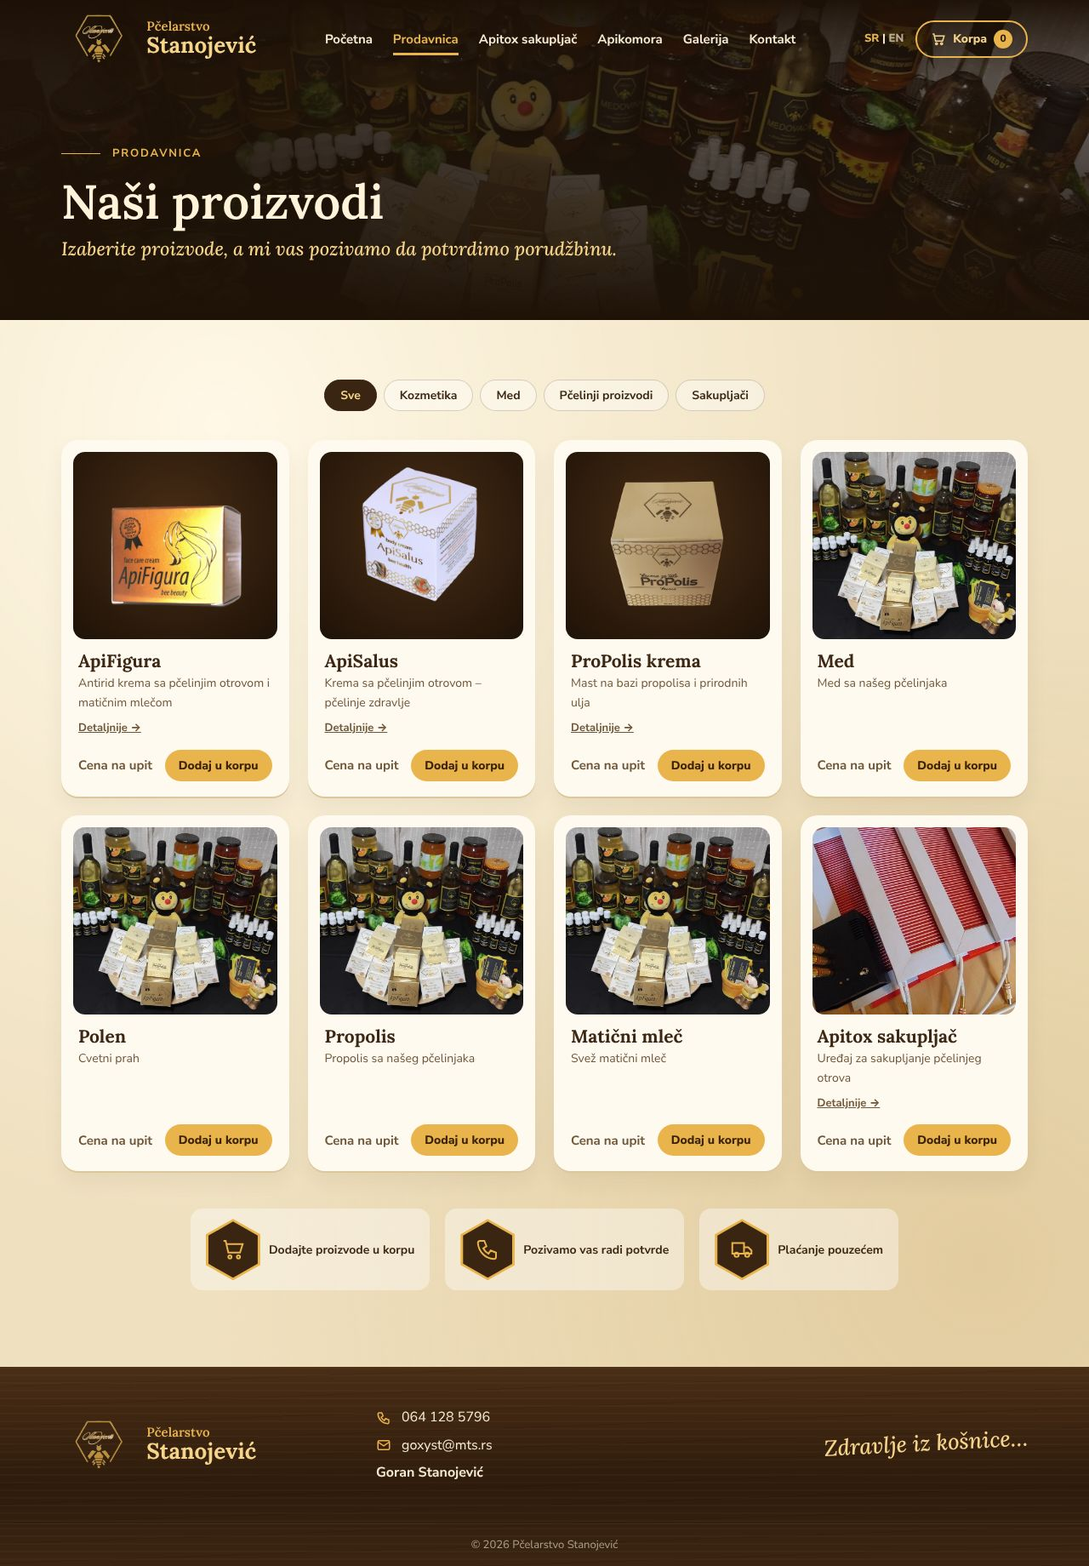
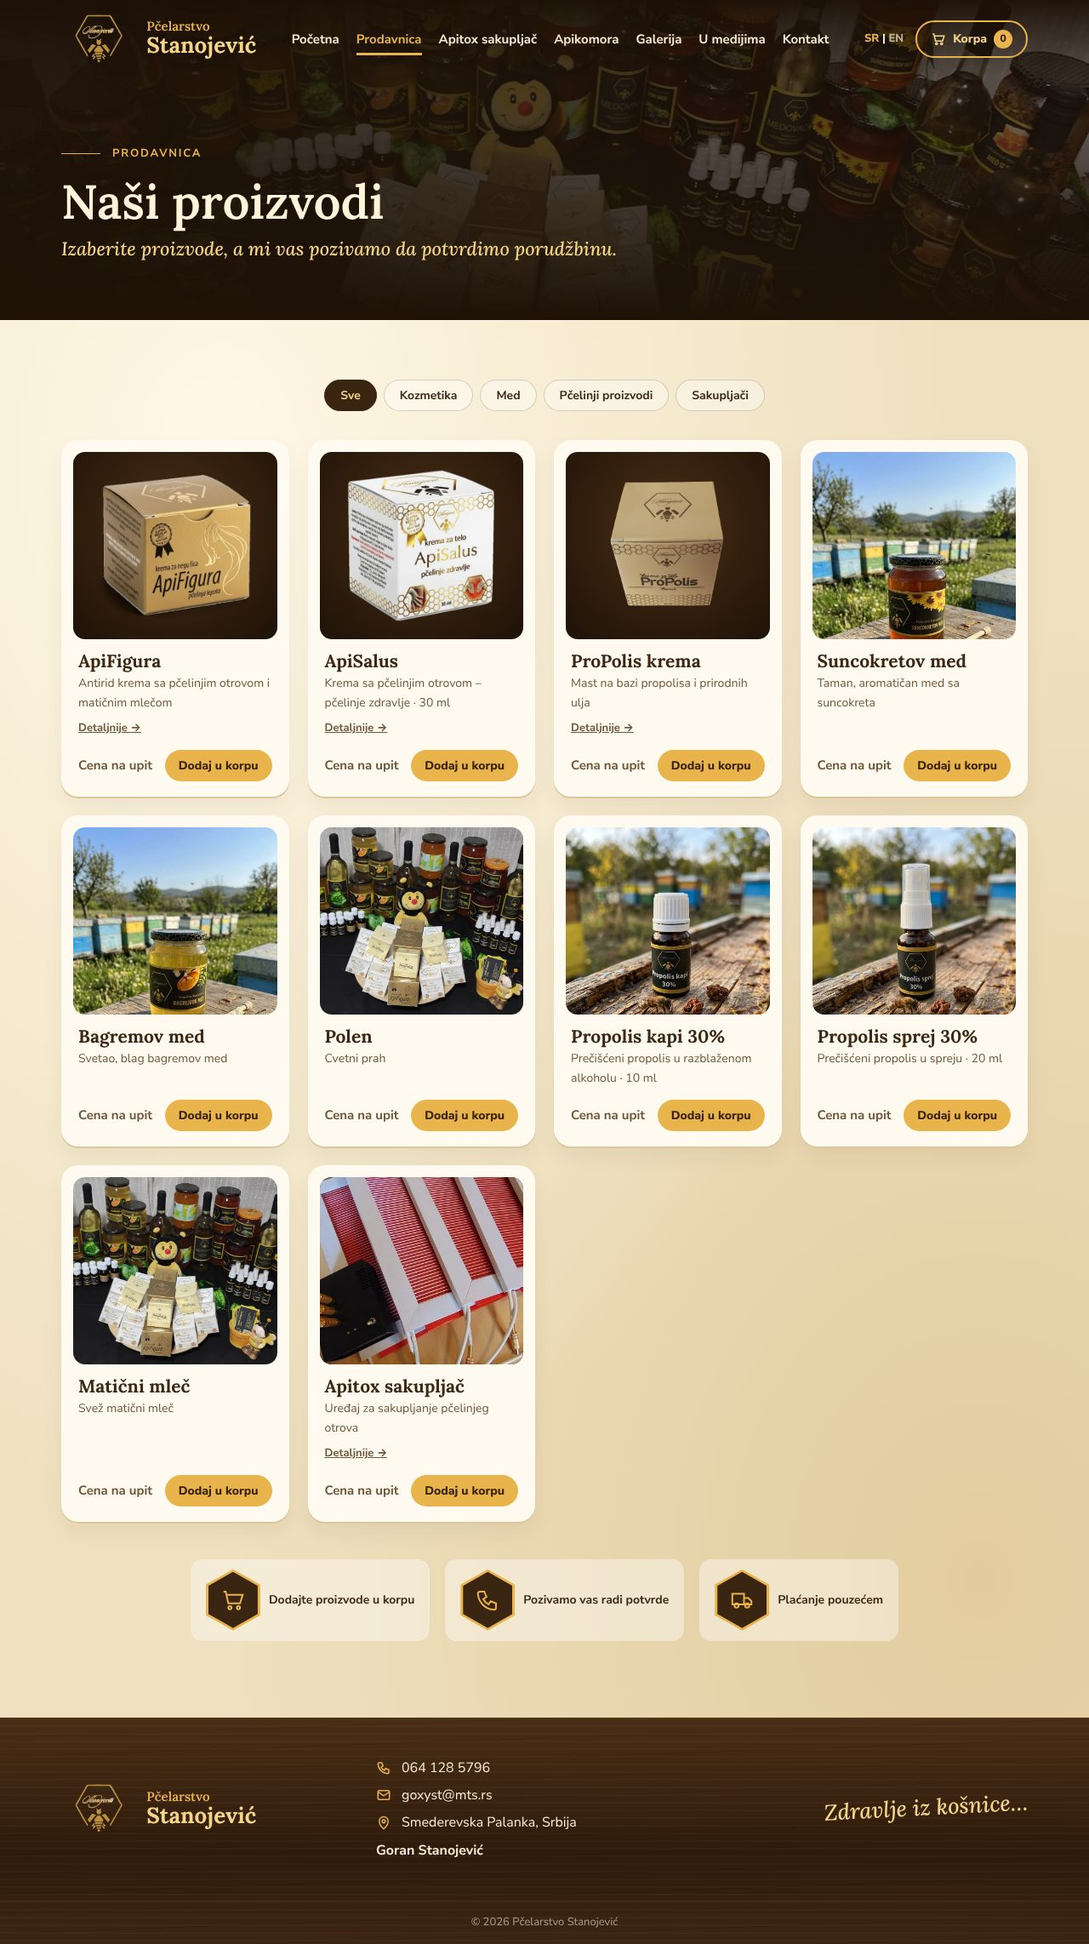
Add product photos for ApiSalus, sunflower and acacia honey, propolis drops and spray
Replaces placeholder honey/propolis items with real products; home hexagons use the new photos.

Claude-Session: https://claude.ai/code/session_0162hmdcb4eJbaXQYQXP79Ds

diff --git a/pcelarstvo-stanojevic/site/assets/products.js b/pcelarstvo-stanojevic/site/assets/products.js
@@ -8,6 +8,7 @@
     unit    – pakovanje (npr. "50 ml", "1 kg")
     img     – slika iz foldera img/
     cover   – true ako je slika fotografija koja treba da ispuni okvir
+    light   – true ako je slika na beloj pozadini (prikazuje se na svetloj podlozi)
     page    – stranica sa detaljima (ako postoji)
     sr / en – naziv i kratak opis na srpskom i engleskom
 
@@ -17,7 +18,7 @@ window.PRODUCTS = [
   { id: "apifigura", cat: "kozmetika", price: null, unit: "", img: "img/proizvodi/apifigura.webp", page: "apifigura",
     sr: { name: "ApiFigura", desc: "Antirid krema sa pčelinjim otrovom i matičnim mlečom" },
     en: { name: "ApiFigura", desc: "Anti-wrinkle cream with bee venom and royal jelly" } },
-  { id: "apisalus", cat: "kozmetika", price: null, unit: "", img: "img/005.png", page: "apisalus",
+  { id: "apisalus", cat: "kozmetika", price: null, img: "img/proizvodi/apisalus.webp", unit: "30 ml", page: "apisalus",
     sr: { name: "ApiSalus", desc: "Krema sa pčelinjim otrovom – pčelinje zdravlje" },
     en: { name: "ApiSalus", desc: "Cream with bee venom – bee health" } },
   { id: "propolis-krema", cat: "kozmetika", price: null, unit: "", img: "img/006.png", page: "propolis-krema",
@@ -25,15 +26,21 @@ window.PRODUCTS = [
     en: { name: "ProPolis cream", desc: "Ointment made with propolis and natural oils" } },
 
   /* --- PRIMERI: dopuniti tačnim proizvodima, pakovanjima i cenama --- */
-  { id: "med", cat: "med", price: null, unit: "", img: "img/049.jpg", cover: true,
-    sr: { name: "Med", desc: "Med sa našeg pčelinjaka" },
-    en: { name: "Honey", desc: "Honey from our apiary" } },
+  { id: "med-suncokret", cat: "med", price: null, unit: "", img: "img/proizvodi/med-suncokret.webp", cover: true,
+    sr: { name: "Suncokretov med", desc: "Taman, aromatičan med sa suncokreta" },
+    en: { name: "Sunflower honey", desc: "Rich, aromatic sunflower honey" } },
+  { id: "med-bagrem", cat: "med", price: null, unit: "", img: "img/proizvodi/med-bagrem.webp", cover: true,
+    sr: { name: "Bagremov med", desc: "Svetao, blag bagremov med" },
+    en: { name: "Acacia honey", desc: "Light, mild acacia honey" } },
   { id: "polen", cat: "pcelinji", price: null, unit: "", img: "img/049.jpg", cover: true,
     sr: { name: "Polen", desc: "Cvetni prah" },
     en: { name: "Bee pollen", desc: "Flower pollen" } },
-  { id: "propolis", cat: "pcelinji", price: null, unit: "", img: "img/049.jpg", cover: true,
-    sr: { name: "Propolis", desc: "Propolis sa našeg pčelinjaka" },
-    en: { name: "Propolis", desc: "Propolis from our apiary" } },
+  { id: "propolis-kapi", cat: "pcelinji", price: null, unit: "10 ml", img: "img/proizvodi/propolis-kapi.webp", cover: true,
+    sr: { name: "Propolis kapi 30%", desc: "Prečišćeni propolis u razblaženom alkoholu" },
+    en: { name: "Propolis drops 30%", desc: "Purified propolis in diluted alcohol" } },
+  { id: "propolis-sprej", cat: "pcelinji", price: null, unit: "20 ml", img: "img/proizvodi/propolis-sprej.webp", cover: true,
+    sr: { name: "Propolis sprej 30%", desc: "Prečišćeni propolis u spreju" },
+    en: { name: "Propolis spray 30%", desc: "Purified propolis spray" } },
   { id: "maticni-mlec", cat: "pcelinji", price: null, unit: "", img: "img/049.jpg", cover: true,
     sr: { name: "Matični mleč", desc: "Svež matični mleč" },
     en: { name: "Royal jelly", desc: "Fresh royal jelly" } },

diff --git a/pcelarstvo-stanojevic/site/apisalus.html b/pcelarstvo-stanojevic/site/apisalus.html
@@ -15,10 +15,10 @@
 <meta property="og:title" content="ApiSalus – krema sa pčelinjim otrovom | Pčelarstvo Stanojević">
 <meta property="og:description" content="ApiSalus – pčelinje zdravlje – zahvaljujući kapsaicinu, kao jednom od sastojaka kreme, apitoksin (pčelinji otrov) brzo prodire kroz kožu i dovodi do…">
 <meta property="og:url" content="https://www.pcelarstvo-stanojevic.com/apisalus.html">
-<meta property="og:image" content="https://www.pcelarstvo-stanojevic.com/img/005.png">
+<meta property="og:image" content="https://www.pcelarstvo-stanojevic.com/img/proizvodi/apisalus.webp">
 <meta property="og:locale" content="sr_RS">
 <meta name="twitter:card" content="summary_large_image">
-<script type="application/ld+json">{"@context": "https://schema.org", "@type": "Product", "name": "ApiSalus", "image": "https://www.pcelarstvo-stanojevic.com/img/005.png", "description": "ApiSalus – pčelinje zdravlje – zahvaljujući kapsaicinu, kao jednom od sastojaka kreme, apitoksin (pčelinji otrov) brzo prodire kroz kožu i dovodi do poboljšanja cirkulacije i protoka krvi u perifernim delovima tela. Najvažniji sastojci apitoksina su melitin i adolapin. Melitin ima ulogu u smanjivanju krvnog pritiska, sprečava zgrušavanje krvi, deluje antibakterijski, štiti od zračenja i deluje na centralni nervni sistem. Adolapin ima ulogu u ublažavanju bolova i deluje antireumatski.", "brand": {"@type": "Brand", "name": "ApitoxCosmetics"}, "manufacturer": {"@type": "Organization", "name": "Pčelarstvo Stanojević"}}</script>
+<script type="application/ld+json">{"@context": "https://schema.org", "@type": "Product", "name": "ApiSalus", "image": "https://www.pcelarstvo-stanojevic.com/img/proizvodi/apisalus.webp", "description": "ApiSalus – pčelinje zdravlje – zahvaljujući kapsaicinu, kao jednom od sastojaka kreme, apitoksin (pčelinji otrov) brzo prodire kroz kožu i dovodi do poboljšanja cirkulacije i protoka krvi u perifernim delovima tela. Najvažniji sastojci apitoksina su melitin i adolapin. Melitin ima ulogu u smanjivanju krvnog pritiska, sprečava zgrušavanje krvi, deluje antibakterijski, štiti od zračenja i deluje na centralni nervni sistem. Adolapin ima ulogu u ublažavanju bolova i deluje antireumatski.", "brand": {"@type": "Brand", "name": "ApitoxCosmetics"}, "manufacturer": {"@type": "Organization", "name": "Pčelarstvo Stanojević"}}</script>
 <link rel="icon" href="img/001.png">
 <link rel="preconnect" href="https://fonts.googleapis.com"><link rel="preconnect" href="https://fonts.gstatic.com" crossorigin>
 <link href="https://fonts.googleapis.com/css2?family=Lora:ital,wght@0,500;0,600;0,700;1,500&family=Nunito+Sans:wght@400;600;700;800&display=swap" rel="stylesheet">
@@ -35,7 +35,7 @@
 </div></header>
 <section class="banner" style="background-image:url(img/002.jpg)"><div class="wrap"><div class="kick left">ApitoxCosmetics</div><h1>ApiSalus</h1><p>Pčelinje zdravlje</p></div></section>
 <section class="content paper"><div class="wrap"><div class="pd">
- <div class="ph"><img src="img/005.png" alt="ApiSalus"></div>
+ <div class="ph"><img src="img/proizvodi/apisalus.webp" alt="ApiSalus"></div>
  <div>
   <a class="small" href="prodavnica.html" style="font-weight:700">← Nazad u prodavnicu</a>
   <h2 style="margin-top:10px">ApiSalus</h2>

diff --git a/pcelarstvo-stanojevic/site/en/apisalus.html b/pcelarstvo-stanojevic/site/en/apisalus.html
@@ -15,10 +15,10 @@
 <meta property="og:title" content="ApiSalus – bee venom cream | Stanojević Beekeeping">
 <meta property="og:description" content="ApiSalus – bee health – thanks to capsaicin, one of the cream's ingredients, apitoxin (bee venom) quickly penetrates the skin and improves circulation and…">
 <meta property="og:url" content="https://www.pcelarstvo-stanojevic.com/en/apisalus.html">
-<meta property="og:image" content="https://www.pcelarstvo-stanojevic.com/img/005.png">
+<meta property="og:image" content="https://www.pcelarstvo-stanojevic.com/img/proizvodi/apisalus.webp">
 <meta property="og:locale" content="en_US">
 <meta name="twitter:card" content="summary_large_image">
-<script type="application/ld+json">{"@context": "https://schema.org", "@type": "Product", "name": "ApiSalus", "image": "https://www.pcelarstvo-stanojevic.com/img/005.png", "description": "ApiSalus – bee health – thanks to capsaicin, one of the cream's ingredients, apitoxin (bee venom) quickly penetrates the skin and improves circulation and blood flow in the peripheral parts of the body. The most important components of apitoxin are melittin and adolapin. Melittin plays a role in lowering blood pressure, prevents blood clotting, has an antibacterial effect, protects against radiation and acts on the central nervous system. Adolapin helps relieve pain and has an anti-rheumatic effect.", "brand": {"@type": "Brand", "name": "ApitoxCosmetics"}, "manufacturer": {"@type": "Organization", "name": "Pčelarstvo Stanojević"}}</script>
+<script type="application/ld+json">{"@context": "https://schema.org", "@type": "Product", "name": "ApiSalus", "image": "https://www.pcelarstvo-stanojevic.com/img/proizvodi/apisalus.webp", "description": "ApiSalus – bee health – thanks to capsaicin, one of the cream's ingredients, apitoxin (bee venom) quickly penetrates the skin and improves circulation and blood flow in the peripheral parts of the body. The most important components of apitoxin are melittin and adolapin. Melittin plays a role in lowering blood pressure, prevents blood clotting, has an antibacterial effect, protects against radiation and acts on the central nervous system. Adolapin helps relieve pain and has an anti-rheumatic effect.", "brand": {"@type": "Brand", "name": "ApitoxCosmetics"}, "manufacturer": {"@type": "Organization", "name": "Pčelarstvo Stanojević"}}</script>
 <link rel="icon" href="../img/001.png">
 <link rel="preconnect" href="https://fonts.googleapis.com"><link rel="preconnect" href="https://fonts.gstatic.com" crossorigin>
 <link href="https://fonts.googleapis.com/css2?family=Lora:ital,wght@0,500;0,600;0,700;1,500&family=Nunito+Sans:wght@400;600;700;800&display=swap" rel="stylesheet">
@@ -35,7 +35,7 @@
 </div></header>
 <section class="banner" style="background-image:url(../img/002.jpg)"><div class="wrap"><div class="kick left">ApitoxCosmetics</div><h1>ApiSalus</h1><p>Bee Health</p></div></section>
 <section class="content paper"><div class="wrap"><div class="pd">
- <div class="ph"><img src="../img/005.png" alt="ApiSalus"></div>
+ <div class="ph"><img src="../img/proizvodi/apisalus.webp" alt="ApiSalus"></div>
  <div>
   <a class="small" href="prodavnica.html" style="font-weight:700">← Back to shop</a>
   <h2 style="margin-top:10px">ApiSalus</h2>

diff --git a/pcelarstvo-stanojevic/site/index.html b/pcelarstvo-stanojevic/site/index.html
@@ -54,8 +54,8 @@
 
 <section class="prod" style="background-image:url(img/049.jpg)"><div class="wrap">
  <div class="head"><h2>Naši proizvodi</h2><div class="sub">Prirodni proizvodi sa našeg pčelinjaka</div></div>
- <div class="hexes"><a class="hx" href="prodavnica.html"><div class="h"><div style="background-image:url(img/049.jpg);background-position:72% 30%;background-size:420%"></div></div>Med</a><a class="hx" href="prodavnica.html"><div class="h"><div style="background-image:url(img/049.jpg);background-position:12% 40%;background-size:420%"></div></div>Polen</a><a class="hx" href="prodavnica.html"><div class="h"><div style="background-image:url(img/049.jpg);background-position:45% 70%;background-size:420%"></div></div>Propolis</a><a class="hx" href="prodavnica.html"><div class="h"><div style="background-image:url(img/049.jpg);background-position:90% 60%;background-size:420%"></div></div>Matični mleč</a><a class="hx" href="apitox-sakupljac.html"><div class="h"><div style="background-image:url(img/033.jpg)"></div></div>Pčelinji otrov</a></div>
- <div class="cos"><a class="c" href="apifigura.html"><img src="img/proizvodi/apifigura.webp" alt="ApiFigura"><span><b>ApiFigura</b><small>Krema sa pčelinjim otrovom</small></span></a><a class="c" href="apisalus.html"><img src="img/005.png" alt="ApiSalus"><span><b>ApiSalus</b><small>Pčelinje zdravlje</small></span></a><a class="c" href="propolis-krema.html"><img src="img/006.png" alt="ProPolis"><span><b>ProPolis</b><small>Krema na bazi propolisa</small></span></a></div>
+ <div class="hexes"><a class="hx" href="prodavnica.html"><div class="h"><div style="background-image:url(img/proizvodi/med-suncokret.webp);background-position:50% 55%;background-size:cover"></div></div>Med</a><a class="hx" href="prodavnica.html"><div class="h"><div style="background-image:url(img/049.jpg);background-position:12% 40%;background-size:420%"></div></div>Polen</a><a class="hx" href="prodavnica.html"><div class="h"><div style="background-image:url(img/proizvodi/propolis-kapi.webp);background-position:50% 55%;background-size:cover"></div></div>Propolis</a><a class="hx" href="prodavnica.html"><div class="h"><div style="background-image:url(img/049.jpg);background-position:90% 60%;background-size:420%"></div></div>Matični mleč</a><a class="hx" href="apitox-sakupljac.html"><div class="h"><div style="background-image:url(img/033.jpg)"></div></div>Pčelinji otrov</a></div>
+ <div class="cos"><a class="c" href="apifigura.html"><img src="img/proizvodi/apifigura.webp" alt="ApiFigura"><span><b>ApiFigura</b><small>Krema sa pčelinjim otrovom</small></span></a><a class="c" href="apisalus.html"><img src="img/proizvodi/apisalus.webp" alt="ApiSalus"><span><b>ApiSalus</b><small>Pčelinje zdravlje</small></span></a><a class="c" href="propolis-krema.html"><img src="img/006.png" alt="ProPolis"><span><b>ProPolis</b><small>Krema na bazi propolisa</small></span></a></div>
  <div style="text-align:center;margin-top:36px"><a class="btn arrow" href="prodavnica.html">Pogledajte prodavnicu</a></div>
 </div></section>
 

diff --git a/pcelarstvo-stanojevic/site/en/index.html b/pcelarstvo-stanojevic/site/en/index.html
@@ -54,8 +54,8 @@
 
 <section class="prod" style="background-image:url(../img/049.jpg)"><div class="wrap">
  <div class="head"><h2>Our products</h2><div class="sub">Natural products from our apiary</div></div>
- <div class="hexes"><a class="hx" href="prodavnica.html"><div class="h"><div style="background-image:url(../img/049.jpg);background-position:72% 30%;background-size:420%"></div></div>Honey</a><a class="hx" href="prodavnica.html"><div class="h"><div style="background-image:url(../img/049.jpg);background-position:12% 40%;background-size:420%"></div></div>Pollen</a><a class="hx" href="prodavnica.html"><div class="h"><div style="background-image:url(../img/049.jpg);background-position:45% 70%;background-size:420%"></div></div>Propolis</a><a class="hx" href="prodavnica.html"><div class="h"><div style="background-image:url(../img/049.jpg);background-position:90% 60%;background-size:420%"></div></div>Royal jelly</a><a class="hx" href="apitox-sakupljac.html"><div class="h"><div style="background-image:url(../img/033.jpg)"></div></div>Bee venom</a></div>
- <div class="cos"><a class="c" href="apifigura.html"><img src="../img/proizvodi/apifigura.webp" alt="ApiFigura"><span><b>ApiFigura</b><small>Cream with bee venom</small></span></a><a class="c" href="apisalus.html"><img src="../img/005.png" alt="ApiSalus"><span><b>ApiSalus</b><small>Bee health</small></span></a><a class="c" href="propolis-krema.html"><img src="../img/006.png" alt="ProPolis"><span><b>ProPolis</b><small>Propolis-based cream</small></span></a></div>
+ <div class="hexes"><a class="hx" href="prodavnica.html"><div class="h"><div style="background-image:url(../img/proizvodi/med-suncokret.webp);background-position:50% 55%;background-size:cover"></div></div>Honey</a><a class="hx" href="prodavnica.html"><div class="h"><div style="background-image:url(../img/049.jpg);background-position:12% 40%;background-size:420%"></div></div>Pollen</a><a class="hx" href="prodavnica.html"><div class="h"><div style="background-image:url(../img/proizvodi/propolis-kapi.webp);background-position:50% 55%;background-size:cover"></div></div>Propolis</a><a class="hx" href="prodavnica.html"><div class="h"><div style="background-image:url(../img/049.jpg);background-position:90% 60%;background-size:420%"></div></div>Royal jelly</a><a class="hx" href="apitox-sakupljac.html"><div class="h"><div style="background-image:url(../img/033.jpg)"></div></div>Bee venom</a></div>
+ <div class="cos"><a class="c" href="apifigura.html"><img src="../img/proizvodi/apifigura.webp" alt="ApiFigura"><span><b>ApiFigura</b><small>Cream with bee venom</small></span></a><a class="c" href="apisalus.html"><img src="../img/proizvodi/apisalus.webp" alt="ApiSalus"><span><b>ApiSalus</b><small>Bee health</small></span></a><a class="c" href="propolis-krema.html"><img src="../img/006.png" alt="ProPolis"><span><b>ProPolis</b><small>Propolis-based cream</small></span></a></div>
  <div style="text-align:center;margin-top:36px"><a class="btn arrow" href="prodavnica.html">Visit the shop</a></div>
 </div></section>
 

diff --git a/pcelarstvo-stanojevic/site/assets/app.js b/pcelarstvo-stanojevic/site/assets/app.js
@@ -43,7 +43,7 @@
     var t = p[lang];
     var link = p.page ? p.page + ".html" : null;
     return '<article class="card" data-cat="' + p.cat + '">' +
-      '<div class="im"><img src="' + base + p.img + '" alt="' + esc(t.name) + '" class="' + (p.cover ? "cover" : "") + '" loading="lazy"></div>' +
+      '<div class="im' + (p.light ? " light" : "") + '"><img src="' + base + p.img + '" alt="' + esc(t.name) + '" class="' + (p.cover ? "cover" : "") + '" loading="lazy"></div>' +
       '<h3>' + esc(t.name) + '</h3><p>' + esc(t.desc) + (p.unit ? " · " + esc(p.unit) : "") + '</p>' +
       (link ? '<a class="more" href="' + link + '">' + T.more + ' →</a>' : "") +
       '<div class="f2"><span class="price' + (p.price == null ? " req" : "") + '">' + fmt(p.price) + '</span><button class="add" data-add="' + p.id + '">' + T.add + '</button></div></article>';

diff --git a/pcelarstvo-stanojevic/site/assets/style.css b/pcelarstvo-stanojevic/site/assets/style.css
@@ -177,6 +177,8 @@ nav.main .close{display:none}
 .card{background:#fffaf0;border-radius:20px;padding:14px;box-shadow:0 2px 0 #dcc79c,0 12px 24px #3b27140f;display:flex;flex-direction:column}
 .card .im{height:220px;border-radius:14px;background:radial-gradient(circle at 50% 40%,#4a2e16,#1e1207);display:grid;place-items:center;overflow:hidden}
 .card .im img{max-height:190px;max-width:85%;object-fit:contain}
+.card .im.light,.pd .ph.light{background:#fffaf0}
+.card .im.light img,.pd .ph.light img{mix-blend-mode:multiply}
 .card .im img.cover{max-height:none;max-width:none;width:100%;height:100%;object-fit:cover}
 .card h3{font-size:21px;margin:14px 6px 2px}
 .card p{color:var(--muted);font-size:14px;margin:0 6px;flex:1}

diff --git a/pcelarstvo-stanojevic/build.py b/pcelarstvo-stanojevic/build.py
@@ -279,7 +279,7 @@ def home(lang):
                  prod_h="Naši proizvodi", prod_s="Prirodni proizvodi sa našeg pčelinjaka",
                  hx=["Med", "Polen", "Propolis", "Matični mleč", "Pčelinji otrov"],
                  cos=[("apifigura", "proizvodi/apifigura.webp", "ApiFigura", "Krema sa pčelinjim otrovom"),
-                      ("apisalus", "005.png", "ApiSalus", "Pčelinje zdravlje"),
+                      ("apisalus", "proizvodi/apisalus.webp", "ApiSalus", "Pčelinje zdravlje"),
                       ("propolis-krema", "006.png", "ProPolis", "Krema na bazi propolisa")],
                  shop="Pogledajte prodavnicu",
                  serv_s="Šta još radimo", serv_h="Naše usluge",
@@ -308,7 +308,7 @@ def home(lang):
                  prod_h="Our products", prod_s="Natural products from our apiary",
                  hx=["Honey", "Pollen", "Propolis", "Royal jelly", "Bee venom"],
                  cos=[("apifigura", "proizvodi/apifigura.webp", "ApiFigura", "Cream with bee venom"),
-                      ("apisalus", "005.png", "ApiSalus", "Bee health"),
+                      ("apisalus", "proizvodi/apisalus.webp", "ApiSalus", "Bee health"),
                       ("propolis-krema", "006.png", "ProPolis", "Propolis-based cream")],
                  shop="Visit the shop",
                  serv_s="What else we do", serv_h="Our services",
@@ -322,10 +322,11 @@ def home(lang):
 
     feats = "".join(f'<div class="f">{hexi(i)}<span>{x}</span></div>'
                     for i, x in zip(["comb", "house", "bee", "award"], t["f"]))
-    hx_pos = ["72% 30%", "12% 40%", "45% 70%", "90% 60%"]
+    hx_img = [("proizvodi/med-suncokret.webp", "50% 55%", "cover"), ("049.jpg", "12% 40%", "420%"),
+              ("proizvodi/propolis-kapi.webp", "50% 55%", "cover"), ("049.jpg", "90% 60%", "420%")]
     hexes = "".join(
-        f'<a class="hx" href="prodavnica.html"><div class="h"><div style="background-image:url({b}img/049.jpg);'
-        f'background-position:{p};background-size:420%"></div></div>{n}</a>' for p, n in zip(hx_pos, t["hx"][:4]))
+        f'<a class="hx" href="prodavnica.html"><div class="h"><div style="background-image:url({b}img/{im});'
+        f'background-position:{p};background-size:{sz}"></div></div>{n}</a>' for (im, p, sz), n in zip(hx_img, t["hx"][:4]))
     hexes += (f'<a class="hx" href="apitox-sakupljac.html"><div class="h"><div style="background-image:url({b}img/033.jpg)">'
               f'</div></div>{t["hx"][4]}</a>')
     cos = "".join(f'<a class="c" href="{s}.html"><img src="{b}img/{i}" alt="{n}"><span><b>{n}</b><small>{d}</small></span></a>'
@@ -423,7 +424,7 @@ CREAMS = {
         upotreba="Apply and rub into the target area (1–2 times a day).",
         napomena="People allergic to bee venom must not use the cream without consulting a doctor. After opening, the "
                  "cream remains stable for 6 months. Store at temperatures up to 35 °C.")),
-    "apisalus": dict(img="005.png", sr=dict(
+    "apisalus": dict(img="proizvodi/apisalus.webp", sr=dict(
         name="ApiSalus", tag="Pčelinje zdravlje",
         lead="ApiSalus – pčelinje zdravlje – zahvaljujući kapsaicinu, kao jednom od sastojaka kreme, apitoksin (pčelinji "
              "otrov) brzo prodire kroz kožu i dovodi do poboljšanja cirkulacije i protoka krvi u perifernim delovima tela. "
@@ -474,7 +475,7 @@ def cream(lang, slug):
                  "Add to cart", "← Back to shop"))[lang]
     body = f"""{banner(lang, "002.jpg", "ApitoxCosmetics", t['name'], t['tag'])}
 <section class="content paper"><div class="wrap"><div class="pd">
- <div class="ph"><img src="{b}img/{d['img']}" alt="{t['name']}"></div>
+ <div class="ph{' light' if d.get('light') else ''}"><img src="{b}img/{d['img']}" alt="{t['name']}"></div>
  <div>
   <a class="small" href="prodavnica.html" style="font-weight:700">{L[5]}</a>
   <h2 style="margin-top:10px">{t['name']}</h2>
